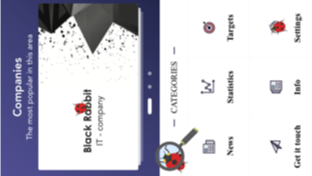
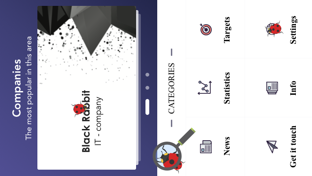
forbid pull to reload another method and fixed screens

diff --git a/LANARS SITE 2nd try/js/script.js b/LANARS SITE 2nd try/js/script.js
@@ -7,11 +7,11 @@ document.addEventListener('DOMContentLoaded', function () {
     var touchstartY = 0;
     var touchendY = 0;
 
-    var gesuredZone = document.querySelector('body');
+    var gesuredZone = document.querySelector('.scrolling_feed');
 
     gesuredZone.addEventListener('touchstart', function(el) {
+        el.preventDefault();
         el = el || window.event;
-        el.preventDefault;
         touchstartY = el.changedTouches[0].screenY;
     }, false);
 

diff --git a/LANARS SITE 2nd try/css/style.css b/LANARS SITE 2nd try/css/style.css
@@ -365,7 +365,7 @@ _:-moz-tree-row(hover),
 .what_we_do .control_panel .label {
 /*    font-family: 'CenturyGothic-Bold';*/
     font-family: 'Lato', sans-serif;
-    font-size: 18px;
+    font-size: 16px;
     padding: 5%;
     text-align: left;
 }
